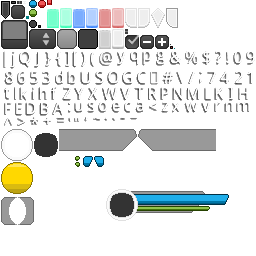
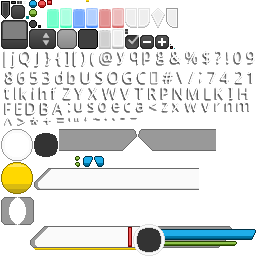
prettier UI
Former-commit-id: 039cf4e24982c7bd4e0cd25892e3860de3c26f0f

Changed region(s): [[0.0938, 0.6562, 1.0, 1.0]]

diff --git a/FriendsWithMonsters/core/src/org/limbusdev/monsterworld/screens/BattleHUD.java b/FriendsWithMonsters/core/src/org/limbusdev/monsterworld/screens/BattleHUD.java
@@ -69,10 +69,8 @@ public class BattleHUD {
     private final Label infoLabel;
     private final Array<Label> monsterLabels;
     private final Array<Label> monsterLvls;
-    private final Array<Image> uiRings, uiRingBgs, uiHudBgs;
-    private final Array<ProgressBar> HPbars;
-    private final Array<ProgressBar> MPbars;
-    private final Array<ProgressBar> RecovBars;
+    private final Array<Image> uiRings, uiRingBgs, uiHudBgs, uiNameSigns;
+    private final Array<ProgressBar> HPbars, MPbars, RecovBars, ExpBars;
     private final ScrollPane attacksPane;
     private final Image indicatorOpp, indicatorHero;
     private Array<Monster> team;
@@ -104,7 +102,9 @@ public class BattleHUD {
         this.uiRings = new Array<Image>();
         this.uiRingBgs = new Array<Image>();
         this.uiHudBgs = new Array<Image>();
+        this.uiNameSigns = new Array<Image>();
         this.RecovBars = new Array<ProgressBar>();
+        this.ExpBars = new Array<ProgressBar>();
         this.oppMonButtons = new Array<Button>();
         this.battleQueue = new Array<AttackAction>();
         this.waitingSince = new Array<Long>();
@@ -253,10 +253,12 @@ public class BattleHUD {
 
         // Buttons ............................................................................. END
 
+        for(Image i : uiNameSigns) stage.addActor(i);
         for(Label l : monsterLabels) stage.addActor(l);
         for(Image i : uiHudBgs) stage.addActor(i);
         for(ProgressBar p : HPbars) stage.addActor(p);
         for(ProgressBar p : MPbars) stage.addActor(p);
+        for(ProgressBar p : ExpBars) stage.addActor(p);
         for(ProgressBar p : RecovBars) stage.addActor(p);
         stage.addActor(fightButton);
         stage.addActor(fleeButton);
@@ -272,25 +274,45 @@ public class BattleHUD {
 
     }
     /* ............................................................................... METHODS .. */
-    public void initHUD(Monster monster, int position, final int teamPos, final IntVector2 indPos) {
+
+    /**
+     * Initializes the graphical representation of a monster on the screen
+     * @param monster   the given monster
+     * @param position  the position on the battle field
+     * @param teamPos   the position in the respective team
+     * @param indPos    the indicator position
+     * @param team      whether hero (true) or opponent (false)
+     */
+    public void initHUD(Monster monster, final int position, final int teamPos, final IntVector2
+            indPos, boolean team) {
         monsterLabels.get(position).setText(
                 monsterInformation.monsterNames.get(monster.ID - 1));
         monsterLabels.get(position).setVisible(true);
-        monsterLabels.get(position).addListener(new ClickListener() {
-            @Override
-            public void clicked(InputEvent event, float x, float y) {
-                chosenTeamMonster = teamPos;
-                indicatorHero.setPosition(indPos.x, indPos.y, Align
-                        .center);
-                activateButton(chosenTeamMonster);
-            }
-        });
+        if(team)
+            monsterLabels.get(position).addListener(new ClickListener() {
+                @Override
+                public void clicked(InputEvent event, float x, float y) {
+                    chosenTeamMonster = teamPos;
+                    indicatorHero.setPosition(indPos.x, indPos.y, Align.center);
+                    activateButton(chosenTeamMonster);
+                }
+            });
+        else
+            monsterLabels.get(position).addListener(new ClickListener() {
+                @Override
+                public void clicked(InputEvent event, float x, float y) {
+                        chosenTarget = position-3;
+                        indicatorOpp.setPosition(indPos.x, indPos.y, Align.center);
+                    }
+                });
+
         monsterLvls.get(position).setText(
                 Integer.toString(monster.level));
         monsterLvls.get(position).setVisible(true);
         HPbars.get(position).setVisible(true);
         MPbars.get(position).setVisible(true);
         RecovBars.get(position).setVisible(true);
+        ExpBars.get(position).setVisible(true);
     }
 
     public void init(TeamComponent team, TeamComponent opponentTeam) {
@@ -308,11 +330,11 @@ public class BattleHUD {
         // Hero Team
         switch(team.monsters.size) {
             case 3:
-                initHUD(team.monsters.get(2), BatPos.HERO_TOP, BatPos.TOP, IndPos.HERO_TOP);
+                initHUD(team.monsters.get(2), BatPos.HERO_TOP, BatPos.TOP, IndPos.HERO_TOP, true);
             case 2:
-                initHUD(team.monsters.get(1), BatPos.HERO_BOT, BatPos.BOT, IndPos.HERO_BOT);
+                initHUD(team.monsters.get(1), BatPos.HERO_BOT, BatPos.BOT, IndPos.HERO_BOT, true);
             default:
-                initHUD(team.monsters.get(0), BatPos.HERO_MID, BatPos.MID, IndPos.HERO_MID);
+                initHUD(team.monsters.get(0), BatPos.HERO_MID, BatPos.MID, IndPos.HERO_MID, true);
                 break;
         }
 
@@ -320,50 +342,14 @@ public class BattleHUD {
         final Button monsterChooser1,monsterChooser2,monsterChooser3;
         switch(opponentTeam.monsters.size) {
             case 3:
-                monsterLabels.get(BatPos.OPPO_TOP).setText(
-                        monsterInformation.monsterNames.get(opponentTeam.monsters.get(2).ID-1));
-                monsterLabels.get(BatPos.OPPO_TOP).setVisible(true);
-                monsterLabels.get(BatPos.OPPO_TOP).addListener(new ClickListener() {
-                    @Override
-                    public void clicked(InputEvent event, float x, float y) {
-                        chosenTarget = BatPos.TOP;
-                        indicatorOpp.setPosition(IndPos.OPPO_TOP.x, IndPos.OPPO_TOP.y, Align
-                                .center);
-                    }
-                });
-                HPbars.get(BatPos.OPPO_TOP).setVisible(true);
-                MPbars.get(BatPos.OPPO_TOP).setVisible(true);
-                RecovBars.get(BatPos.OPPO_TOP).setVisible(true);
+                initHUD(opponentTeam.monsters.get(2), BatPos.OPPO_TOP, BatPos.TOP, IndPos
+                        .OPPO_TOP, false);
             case 2:
-                monsterLabels.get(BatPos.OPPO_BOT).setText(
-                        monsterInformation.monsterNames.get(opponentTeam.monsters.get(1).ID-1));
-                monsterLabels.get(BatPos.OPPO_BOT).setVisible(true);
-                monsterLabels.get(BatPos.OPPO_BOT).addListener(new ClickListener() {
-                    @Override
-                    public void clicked(InputEvent event, float x, float y) {
-                        chosenTarget = BatPos.BOT;
-                        indicatorOpp.setPosition(IndPos.OPPO_BOT.x, IndPos.OPPO_BOT.y, Align
-                                .center);
-                    }
-                });
-                HPbars.get(BatPos.OPPO_BOT).setVisible(true);
-                MPbars.get(BatPos.OPPO_BOT).setVisible(true);
-                RecovBars.get(BatPos.OPPO_BOT).setVisible(true);
+                initHUD(opponentTeam.monsters.get(1), BatPos.OPPO_BOT, BatPos.BOT, IndPos
+                        .OPPO_BOT, false);
             default:
-                monsterLabels.get(BatPos.OPPO_MID).setText(
-                        monsterInformation.monsterNames.get(opponentTeam.monsters.get(0).ID-1));
-                monsterLabels.get(BatPos.OPPO_MID).setVisible(true);
-                monsterLabels.get(BatPos.OPPO_MID).addListener(new ClickListener() {
-                    @Override
-                    public void clicked(InputEvent event, float x, float y) {
-                        chosenTarget = BatPos.MID;
-                        indicatorOpp.setPosition(IndPos.OPPO_MID.x, IndPos.OPPO_MID.y, Align
-                                .center);
-                    }
-                });
-                HPbars.get(BatPos.OPPO_MID).setVisible(true);
-                MPbars.get(BatPos.OPPO_MID).setVisible(true);
-                RecovBars.get(BatPos.OPPO_MID).setVisible(true);
+                initHUD(opponentTeam.monsters.get(0), BatPos.OPPO_MID, BatPos.MID, IndPos
+                        .OPPO_MID, false);
                 break;
         }
         for(Button b : oppMonButtons) stage.addActor(b);
@@ -375,6 +361,7 @@ public class BattleHUD {
         for(ProgressBar p : HPbars) p.setVisible(false);
         for(ProgressBar p : MPbars) p.setVisible(false);
         for(ProgressBar p : RecovBars) p.setVisible(false);
+        for(ProgressBar p : ExpBars) p.setVisible(false);
         oppMonButtons.clear();
         this.chosenTarget = BatPos.MID;
         this.chosenTeamMonster = BatPos.MID;
@@ -404,23 +391,11 @@ public class BattleHUD {
     }
 
     public void setUpUI() {
-        ProgressBar.ProgressBarStyle HPbarStyle = new ProgressBar.ProgressBarStyle();
-        HPbarStyle.background = skin.getDrawable("invis");
-        Drawable HPbar = skin.getDrawable("HP-slider");
-        HPbarStyle.knobBefore= HPbar;
-        ProgressBar.ProgressBarStyle MPbarStyle = new ProgressBar.ProgressBarStyle();
-        MPbarStyle.background = skin.getDrawable("invis");
-        MPbarStyle.knobBefore= skin.getDrawable("MP-slider");
-        ProgressBar.ProgressBarStyle RecovBarStyle = new ProgressBar.ProgressBarStyle();
-        RecovBarStyle.background = skin.getDrawable("invis");
-        RecovBarStyle.knobBefore= skin.getDrawable("red-slider-vert");
-
-        ProgressBar mp, hp, rp;
 
         // Hero Team ###############################################################################
-        addMonsterHUD(48,480-67);
-        addMonsterHUD(16,480-100);
-        addMonsterHUD(80,480-36);
+        addMonsterHUD(58,480-67);
+        addMonsterHUD(26,480-100);
+        addMonsterHUD(90,480-36);
 
         // Opponent Team ###########################################################################
         addMonsterHUD(800-256-16-32,480-67);
@@ -432,6 +407,7 @@ public class BattleHUD {
         for(ProgressBar p : HPbars) p.setVisible(false);
         for(ProgressBar p : MPbars) p.setVisible(false);
         for(ProgressBar p : RecovBars) p.setVisible(false);
+        for(ProgressBar p : ExpBars) p.setVisible(false);
         for(Label p : monsterLvls) p.setVisible(false);
 
     }
@@ -452,6 +428,9 @@ public class BattleHUD {
         ProgressBar.ProgressBarStyle RecovBarStyle = new ProgressBar.ProgressBarStyle();
         RecovBarStyle.background = skin.getDrawable("invis");
         RecovBarStyle.knobBefore = skin.getDrawable("red-slider-vert");
+        ProgressBar.ProgressBarStyle ExpBarStyle = new ProgressBar.ProgressBarStyle();
+        ExpBarStyle.background = skin.getDrawable("invis");
+        ExpBarStyle.knobBefore = skin.getDrawable("yellow-slider-hor");
 
         Image hudEl;
         hudEl = new Image();
@@ -475,19 +454,31 @@ public class BattleHUD {
         hudEl.setHeight(32);
         hudEl.setWidth(32);
         uiRings.add(hudEl);
+        hudEl = new Image();
+        hudEl.setDrawable(skin, "hud-bg3");
+        hudEl.setPosition(x-14, y+5);
+        hudEl.setWidth(200);
+        hudEl.setHeight(22);
+        uiNameSigns.add(hudEl);
 
 
-        ProgressBar mp, hp, rp;
+        ProgressBar mp, hp, rp, ep;
 
-        Label monsterLabel = new Label("Me", skin, "name-sign-l");
+        Label.LabelStyle ls = new Label.LabelStyle();
+        ls.background = skin.getDrawable("invis");
+        ls.font = skin.getFont("default-font");
+        ls.fontColor = Color.WHITE;
+
+        Label monsterLabel = new Label("Me", ls);
         monsterLabel.setWidth(128);
         monsterLabel.setHeight(26);
-        monsterLabel.setPosition(x, y); // 48, 480-67
+        monsterLabel.setPosition(x, y + 2); // 48, 480-67
         monsterLabels.add(monsterLabel);
 
         hp = new ProgressBar(0, 100, 1, false, HPbarStyle);
         mp = new ProgressBar(0, 100, 1, false, MPbarStyle);
         rp = new ProgressBar(0, 100, 1, true, RecovBarStyle);
+        ep = new ProgressBar(0, 100, 1, false, ExpBarStyle);
 
         hp.setPosition(x + 124, y + 14);
         hp.setWidth(128);
@@ -495,24 +486,26 @@ public class BattleHUD {
         mp.setPosition(x + 124, y + 6);
         mp.setWidth(100);
         mp.setValue(100);
-        rp.setPosition(x + 100, y + 1);
-        rp.setHeight(24);
+        rp.setPosition(x + 100, y + 5);
+        rp.setHeight(22);
         mp.setValue(100);
+        ep.setPosition(x-9, y);
+        ep.setWidth(120);
+        ep.setValue(100);
 
         hp.setAnimateInterpolation(Interpolation.linear);
         hp.setAnimateDuration(1f);
         rp.setAnimateInterpolation(Interpolation.linear);
         rp.setAnimateDuration(.1f);
+        ep.setAnimateInterpolation(Interpolation.linear);
+        ep.setAnimateDuration(.1f);
 
         HPbars.add(hp);
         MPbars.add(mp);
         RecovBars.add(rp);
+        ExpBars.add(ep);
 
-        Label.LabelStyle ls = new Label.LabelStyle();
-        ls.background = skin.getDrawable("invis");
         ls.font = skin.getFont("white");
-        ls.fontColor = Color.WHITE;
-
         Label lvl = new Label("0", ls);
         lvl.setPosition(x + 125, y + 13, Align.center);
         monsterLvls.add(lvl);

diff --git a/FriendsWithMonsters/core/src/org/limbusdev/monsterworld/screens/HUD.java b/FriendsWithMonsters/core/src/org/limbusdev/monsterworld/screens/HUD.java
@@ -78,9 +78,9 @@ public class HUD {
             @Override
             public void clicked(InputEvent event, float x, float y) {
                 TeamComponent oppTeam = new TeamComponent();
-                oppTeam.monsters.add(BattleFactory.getInstance().createMonster(2));
+                oppTeam.monsters.add(BattleFactory.getInstance().createMonster(7));
                 oppTeam.monsters.add(BattleFactory.getInstance().createMonster(4));
-                oppTeam.monsters.add(BattleFactory.getInstance().createMonster(22));
+                oppTeam.monsters.add(BattleFactory.getInstance().createMonster(11));
                 battleScreen.init(ComponentRetriever.team.get(hero), oppTeam);
                 game.setScreen(battleScreen);
             }

diff --git a/FriendsWithMonsters/core/src/org/limbusdev/monsterworld/model/MonsterInformation.java b/FriendsWithMonsters/core/src/org/limbusdev/monsterworld/model/MonsterInformation.java
@@ -28,7 +28,7 @@ public class MonsterInformation {
         monsterNames.set(10, "Flyear");
         monsterNames.set(11, "Tuxedo");
         monsterNames.set(12, "Eggolomia");
-        monsterNames.set(13, "Big eyed Katago");
+        monsterNames.set(13, "Big eyed Ka");
         monsterNames.set(14, "Cath");
         monsterNames.set(15, "Dogh");
     }
